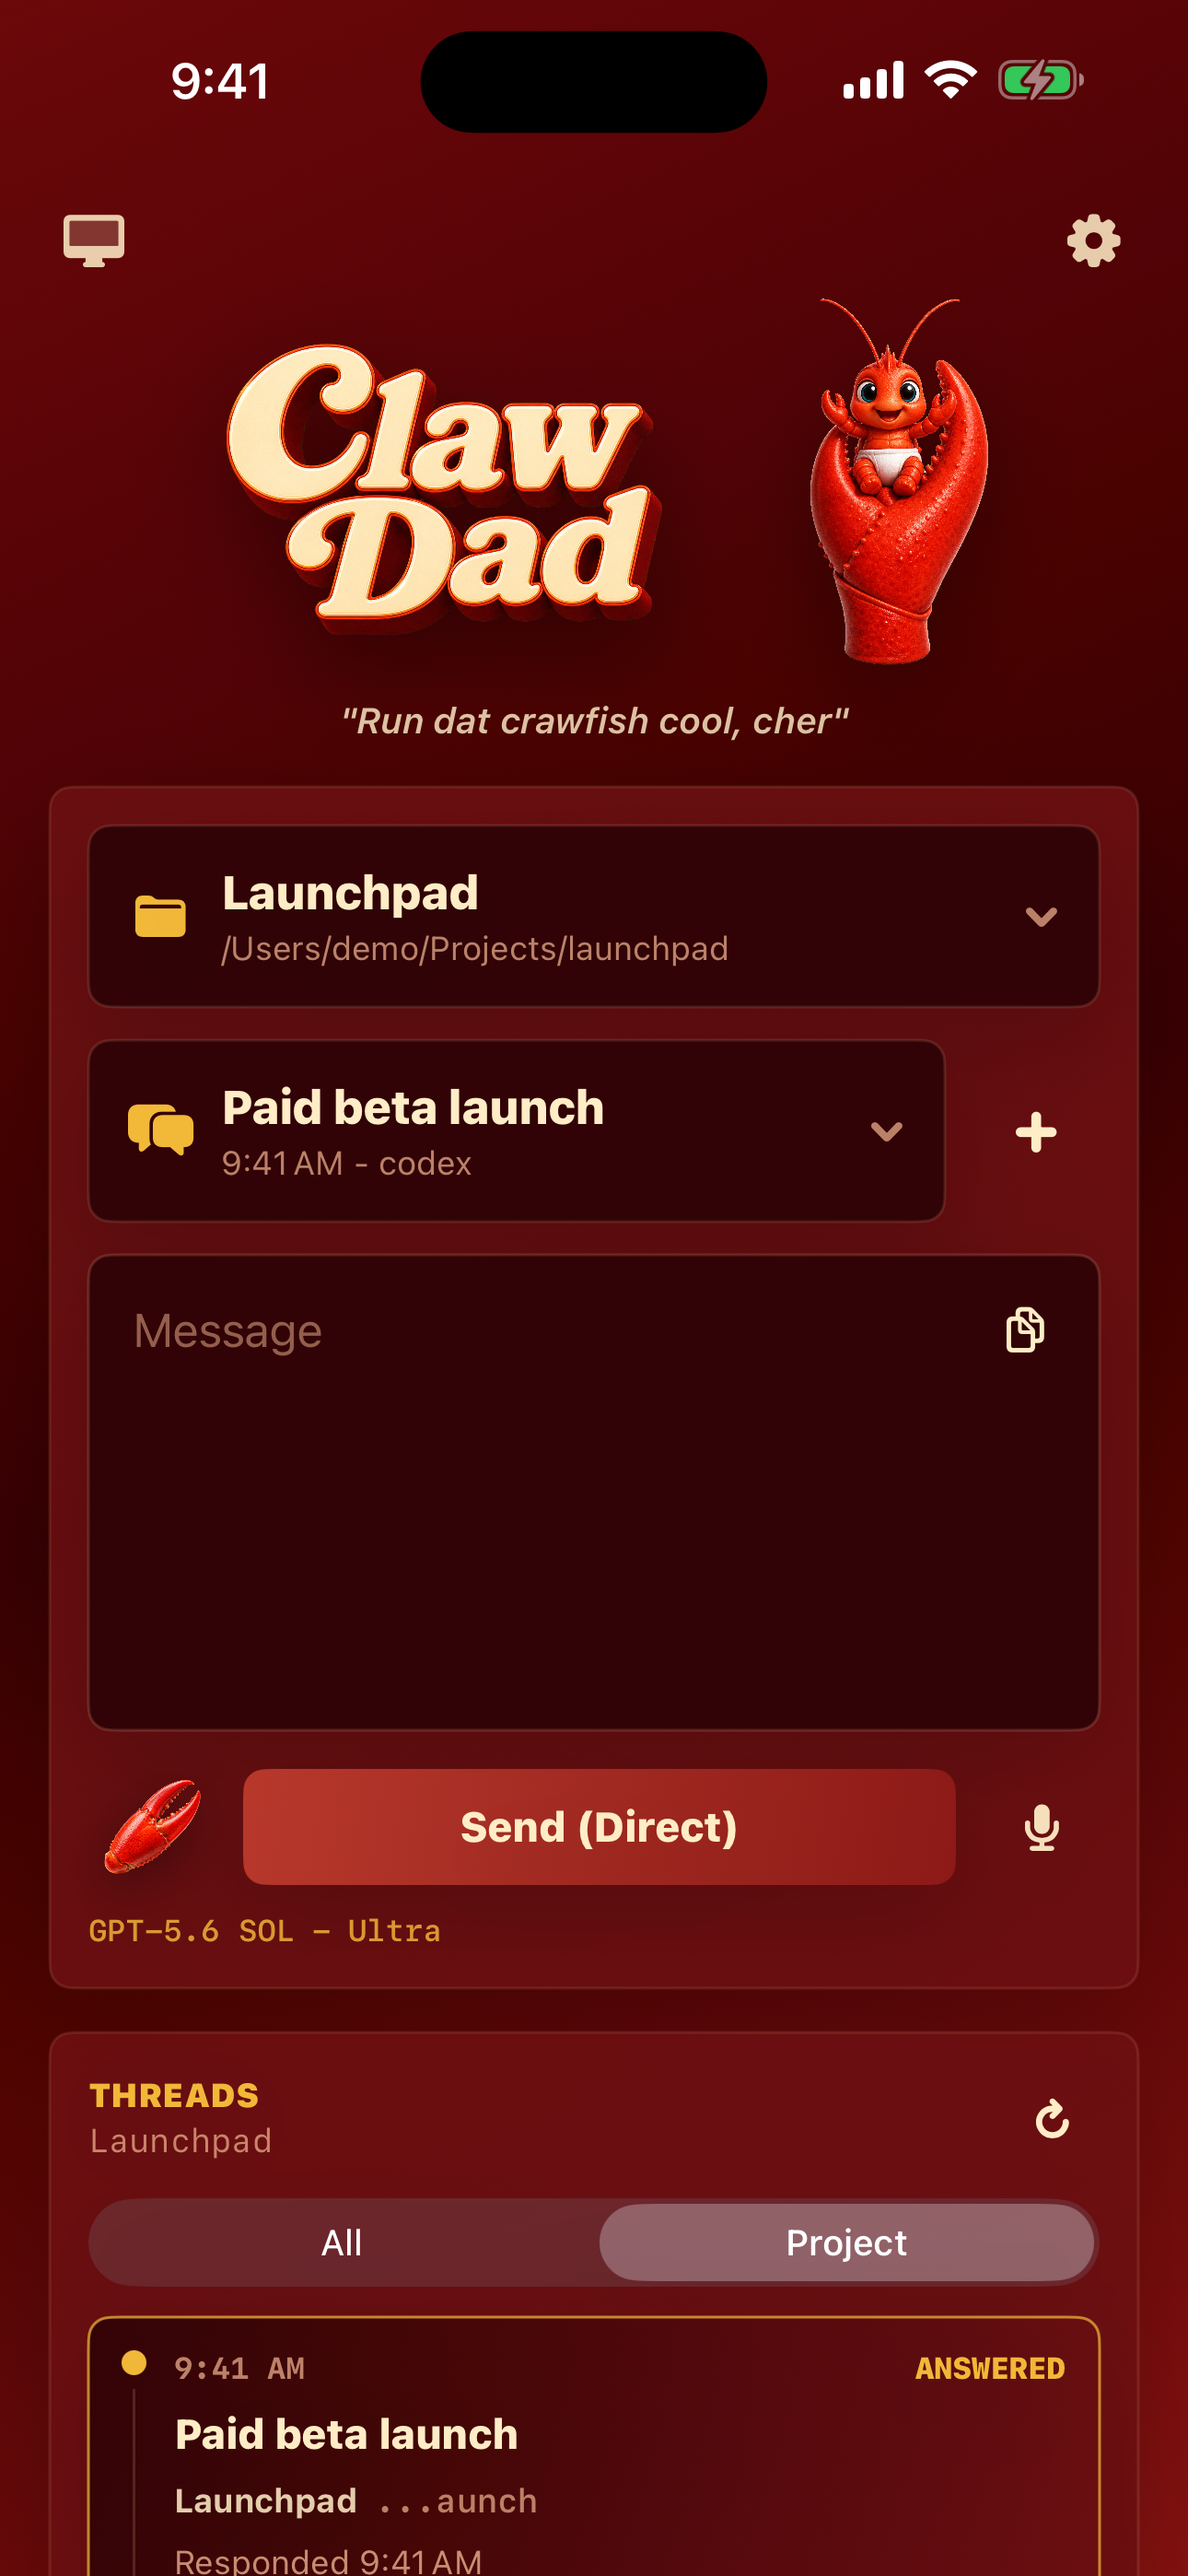
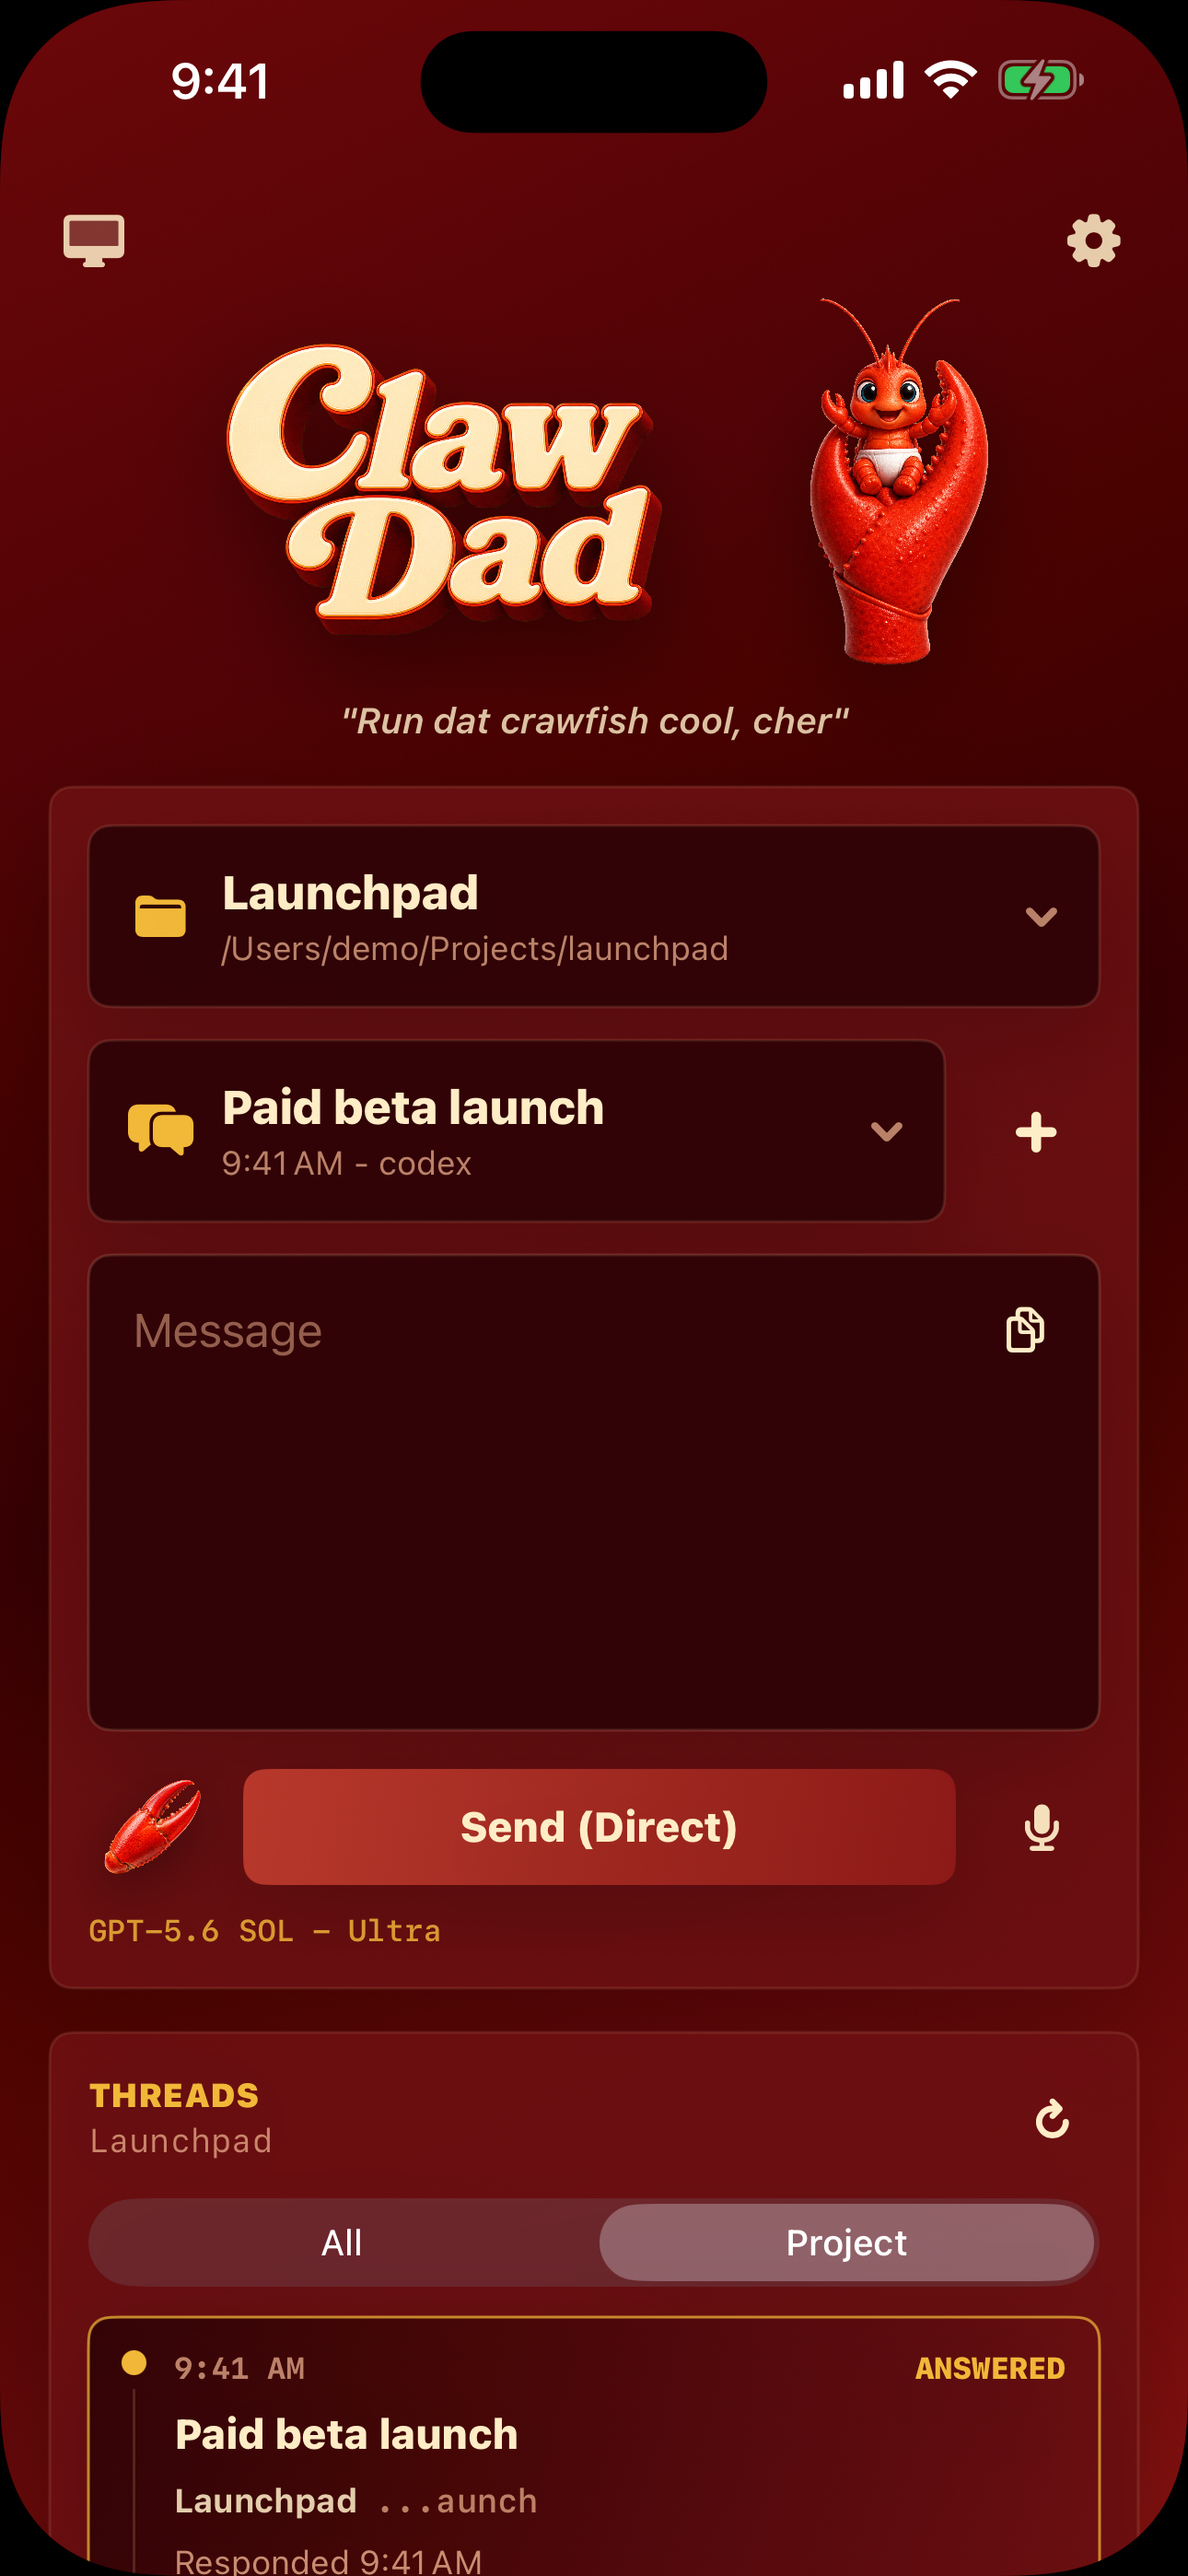
Ensure App Store screenshots are opaque

diff --git a/docs/app-store/review-handoff.md b/docs/app-store/review-handoff.md
@@ -88,10 +88,11 @@ The current 6.9-inch iPhone screenshots are:
 - `docs/app-store/screenshots/iphone-6.9/01-workspace.png`
 - `docs/app-store/screenshots/iphone-6.9/02-conversation.png`
 
-Both are `1290x2796` captures from the real SwiftUI surfaces. They use a
-DEBUG-only, in-memory fixture with synthetic `/Users/demo/...` projects and
-perform no pairing, network requests, or writes to the user's saved workspace.
-The fixture is unavailable in Release and TestFlight builds.
+Both are opaque `1290x2796` captures from the real SwiftUI surfaces, matching
+Apple's 6.9-inch screenshot requirements. They use a DEBUG-only, in-memory
+fixture with synthetic `/Users/demo/...` projects and perform no pairing,
+network requests, or writes to the user's saved workspace. The fixture is
+unavailable in Release and TestFlight builds.
 
 Regenerate and dimension-check the complete set with:
 

diff --git a/docs/app-store/screenshots/README.md b/docs/app-store/screenshots/README.md
@@ -13,7 +13,8 @@ zsh ./bin/clawdad-app-store-screenshots
 
 The script builds the Debug simulator target, installs it on the dedicated
 `ClawDad App Store 6.9` simulator, fixes the status bar at 9:41, captures each
-scenario, and rejects output that is not exactly `1290x2796`.
+scenario with an opaque screen mask, and rejects output that is not exactly
+`1290x2796` or still contains an alpha channel.
 
 Before upload, visually inspect every generated PNG for:
 
